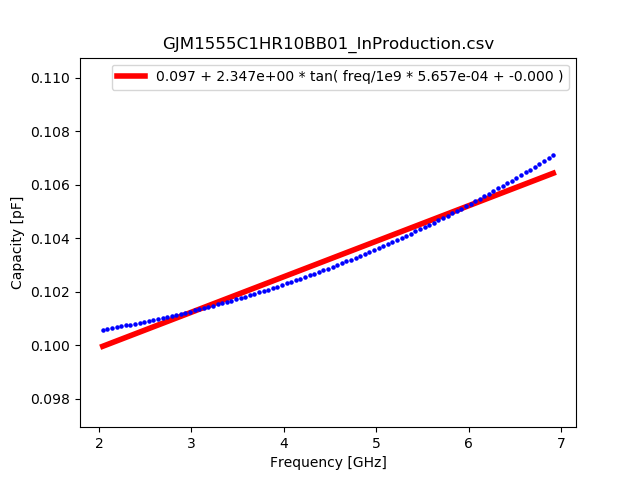
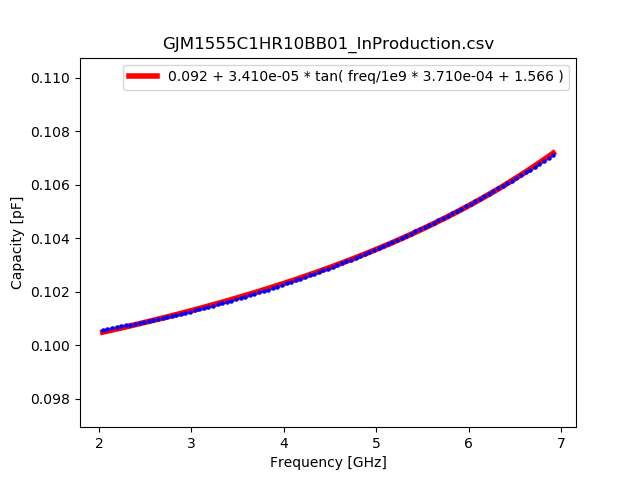
update : initial value

diff --git a/fitting.py b/fitting.py
@@ -81,7 +81,9 @@ def fitting(file_name, freq_min, freq_max, save_img=True):
 
     # curve fitting
     a0 = get_capacity_from_csv(file_name)
-    popt, pcov = curve_fit(func, freq, cap, p0=[a0, 1, 1e-4, 0], maxfev=5000)
+    # popt, pcov = curve_fit(func, freq, cap, p0=[a0, 0.1, 1e-4, 1.5], maxfev=int(1e6))
+    popt, pcov = curve_fit(func, freq, cap, p0=[0.3, 0, 1e-4, 1.5], maxfev=int(1e5))
+    
 
     img_file = ''
 

diff --git a/README.md b/README.md
@@ -5,19 +5,19 @@ note : use only simsurfing data
 
 | label | value | func |
 | ---   | ---   | --- |
-| [GJM1555C1H1R0BB01_InProduction.csv](img/GJM1555C1H1R0BB01_InProduction.png) | 1.0pF | `0.446 + 8.830e-03 * tan( freq/1e9 * 2.626e-03 + 1.551 )` |
-| [GJM1555C1H1R1WB01_InProduction.csv](img/GJM1555C1H1R1WB01_InProduction.png) | 1.1pF | `0.508 + 6.725e-03 * tan( freq/1e9 * 1.772e-03 + 1.557 )` |
-| [GJM1555C1H1R2BB01_InProduction.csv](img/GJM1555C1H1R2BB01_InProduction.png) | 1.2pF | `0.515 + 9.518e-03 * tan( freq/1e9 * 2.288e-03 + 1.553 )` |
-| [GJM1555C1H1R3BB01_InProduction.csv](img/GJM1555C1H1R3BB01_InProduction.png) | 1.3pF | `0.516 + 1.620e-02 * tan( freq/1e9 * 3.588e-03 + 1.544 )` |
-| [GJM1555C1H1R4BB01_InProduction.csv](img/GJM1555C1H1R4BB01_InProduction.png) | 1.4pF | `0.530 + 2.416e-02 * tan( freq/1e9 * 4.985e-03 + 1.535 )` |
-| [GJM1555C1H1R5BB01_InProduction.csv](img/GJM1555C1H1R5BB01_InProduction.png) | 1.5pF | `0.502 + 1.014e-01 * tan( freq/1e9 * 1.953e-02 + 1.434 )` |
-| [GJM1555C1H1R6BB01_InProduction.csv](img/GJM1555C1H1R6BB01_InProduction.png) | 1.6pF | `0.529 + 1.287e-01 * tan( freq/1e9 * 2.396e-02 + 1.408 )` |
-| [GJM1555C1HR10BB01_InProduction.csv](img/GJM1555C1HR10BB01_InProduction.png) | 0.1pF | `0.097 + 2.347e+00 * tan( freq/1e9 * 5.657e-04 + -0.000 )` |
-| [GJM1555C1HR20BB01_InProduction.csv](img/GJM1555C1HR20BB01_InProduction.png) | 0.2pF | `0.170 + 2.476e-04 * tan( freq/1e9 * 7.743e-04 + 1.561 )` |
-| [GJM1555C1HR30BB01_InProduction.csv](img/GJM1555C1HR30BB01_InProduction.png) | 0.3pF | `0.241 + 2.062e-04 * tan( freq/1e9 * 3.490e-04 + 1.567 )` |
-| [GJM1555C1HR40BB01_InProduction.csv](img/GJM1555C1HR40BB01_InProduction.png) | 0.4pF | `0.292 + 5.101e-04 * tan( freq/1e9 * 5.044e-04 + 1.565 )` |
-| [GJM1555C1HR50BB01_InProduction.csv](img/GJM1555C1HR50BB01_InProduction.png) | 0.5pF | `0.355 + 7.115e-04 * tan( freq/1e9 * 5.527e-04 + 1.565 )` |
-| [GJM1555C1HR60BB01_InProduction.csv](img/GJM1555C1HR60BB01_InProduction.png) | 0.6pF | `0.397 + 1.494e-03 * tan( freq/1e9 * 8.749e-04 + 1.562 )` |
-| [GJM1555C1HR70BB01_InProduction.csv](img/GJM1555C1HR70BB01_InProduction.png) | 0.7pF | `0.408 + 1.641e-03 * tan( freq/1e9 * 7.424e-04 + 1.564 )` |
-| [GJM1555C1HR80BB01_InProduction.csv](img/GJM1555C1HR80BB01_InProduction.png) | 0.8pF | `0.435 + 2.191e-03 * tan( freq/1e9 * 8.433e-04 + 1.564 )` |
-| [GJM1555C1HR90BB01_InProduction.csv](img/GJM1555C1HR90BB01_InProduction.png) | 0.9pF | `0.462 + 4.221e-03 * tan( freq/1e9 * 1.436e-03 + 1.559 )` |
+| [GJM1555C1H1R0BB01_InProduction.csv](img/GJM1555C1H1R0BB01_InProduction.png) | 1.0pF | `0.446 + 7.759e-03 * tan( freq/1e9 * 2.307e-03 + 1.553 )` |
+| [GJM1555C1H1R1WB01_InProduction.csv](img/GJM1555C1H1R1WB01_InProduction.png) | 1.1pF | `0.508 + 7.715e-03 * tan( freq/1e9 * 2.033e-03 + 1.555 )` |
+| [GJM1555C1H1R2BB01_InProduction.csv](img/GJM1555C1H1R2BB01_InProduction.png) | 1.2pF | `0.515 + 9.215e-03 * tan( freq/1e9 * 2.215e-03 + 1.554 )` |
+| [GJM1555C1H1R3BB01_InProduction.csv](img/GJM1555C1H1R3BB01_InProduction.png) | 1.3pF | `0.516 + 1.648e-02 * tan( freq/1e9 * 3.652e-03 + 1.544 )` |
+| [GJM1555C1H1R4BB01_InProduction.csv](img/GJM1555C1H1R4BB01_InProduction.png) | 1.4pF | `0.530 + 2.301e-02 * tan( freq/1e9 * 4.747e-03 + 1.536 )` |
+| [GJM1555C1H1R5BB01_InProduction.csv](img/GJM1555C1H1R5BB01_InProduction.png) | 1.5pF | `0.500 + 5.973e-02 * tan( freq/1e9 * 1.150e-02 + 1.490 )` |
+| [GJM1555C1H1R6BB01_InProduction.csv](img/GJM1555C1H1R6BB01_InProduction.png) | 1.6pF | `0.527 + 6.705e-02 * tan( freq/1e9 * 1.248e-02 + 1.486 )` |
+| [GJM1555C1HR10BB01_InProduction.csv](img/GJM1555C1HR10BB01_InProduction.png) | 0.1pF | `0.092 + 3.410e-05 * tan( freq/1e9 * 3.710e-04 + 1.566 )` |
+| [GJM1555C1HR20BB01_InProduction.csv](img/GJM1555C1HR20BB01_InProduction.png) | 0.2pF | `0.170 + 2.088e-04 * tan( freq/1e9 * 6.529e-04 + 1.563 )` |
+| [GJM1555C1HR30BB01_InProduction.csv](img/GJM1555C1HR30BB01_InProduction.png) | 0.3pF | `0.241 + 4.287e-04 * tan( freq/1e9 * 7.254e-04 + 1.563 )` |
+| [GJM1555C1HR40BB01_InProduction.csv](img/GJM1555C1HR40BB01_InProduction.png) | 0.4pF | `0.292 + 3.791e-04 * tan( freq/1e9 * 3.748e-04 + 1.567 )` |
+| [GJM1555C1HR50BB01_InProduction.csv](img/GJM1555C1HR50BB01_InProduction.png) | 0.5pF | `0.355 + 7.252e-04 * tan( freq/1e9 * 5.633e-04 + 1.565 )` |
+| [GJM1555C1HR60BB01_InProduction.csv](img/GJM1555C1HR60BB01_InProduction.png) | 0.6pF | `0.397 + 6.110e-04 * tan( freq/1e9 * 3.578e-04 + 1.567 )` |
+| [GJM1555C1HR70BB01_InProduction.csv](img/GJM1555C1HR70BB01_InProduction.png) | 0.7pF | `0.408 + 2.152e-03 * tan( freq/1e9 * 9.738e-04 + 1.562 )` |
+| [GJM1555C1HR80BB01_InProduction.csv](img/GJM1555C1HR80BB01_InProduction.png) | 0.8pF | `0.435 + 2.388e-03 * tan( freq/1e9 * 9.192e-04 + 1.563 )` |
+| [GJM1555C1HR90BB01_InProduction.csv](img/GJM1555C1HR90BB01_InProduction.png) | 0.9pF | `0.462 + 4.369e-03 * tan( freq/1e9 * 1.486e-03 + 1.559 )` |
